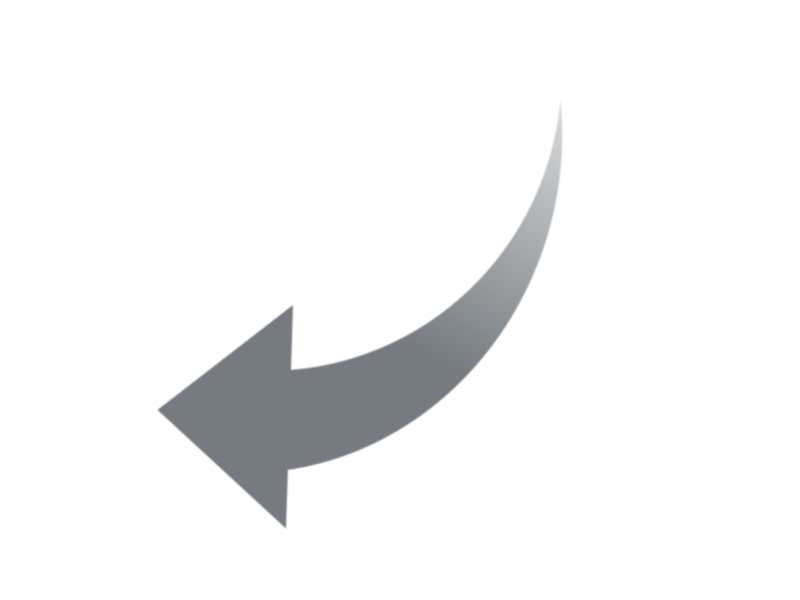
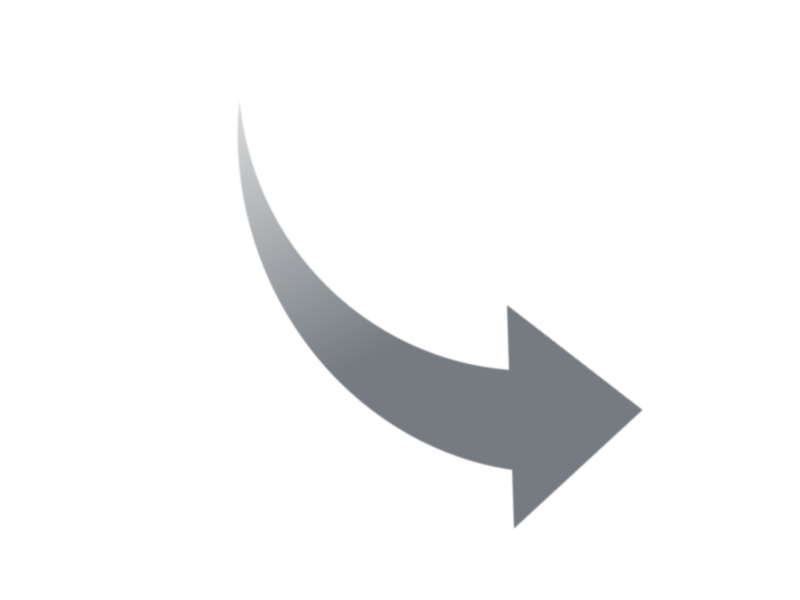
Move arrow to the left

Changed region(s): [[0.1875, 0.18, 0.8125, 0.87]]

diff --git a/intro-anims.py b/intro-anims.py
@@ -14,7 +14,7 @@ class Thumbnail(ThreeDScene):
         txt = Group(*txt).arrange(DOWN).shift(0 * RIGHT + 3.5 * UP)
         txt[0].align_to(txt[1], RIGHT)
 
-        arrow = ImageMobject("sipka.png").move_to(4.5 * RIGHT + 0.3 * DOWN)
+        arrow = ImageMobject("sipka.png").move_to(4.5 * LEFT + 0.3 * DOWN)
 
         # arrow = Arrow(
         #     start = 1*RIGHT + 1 * DOWN,
